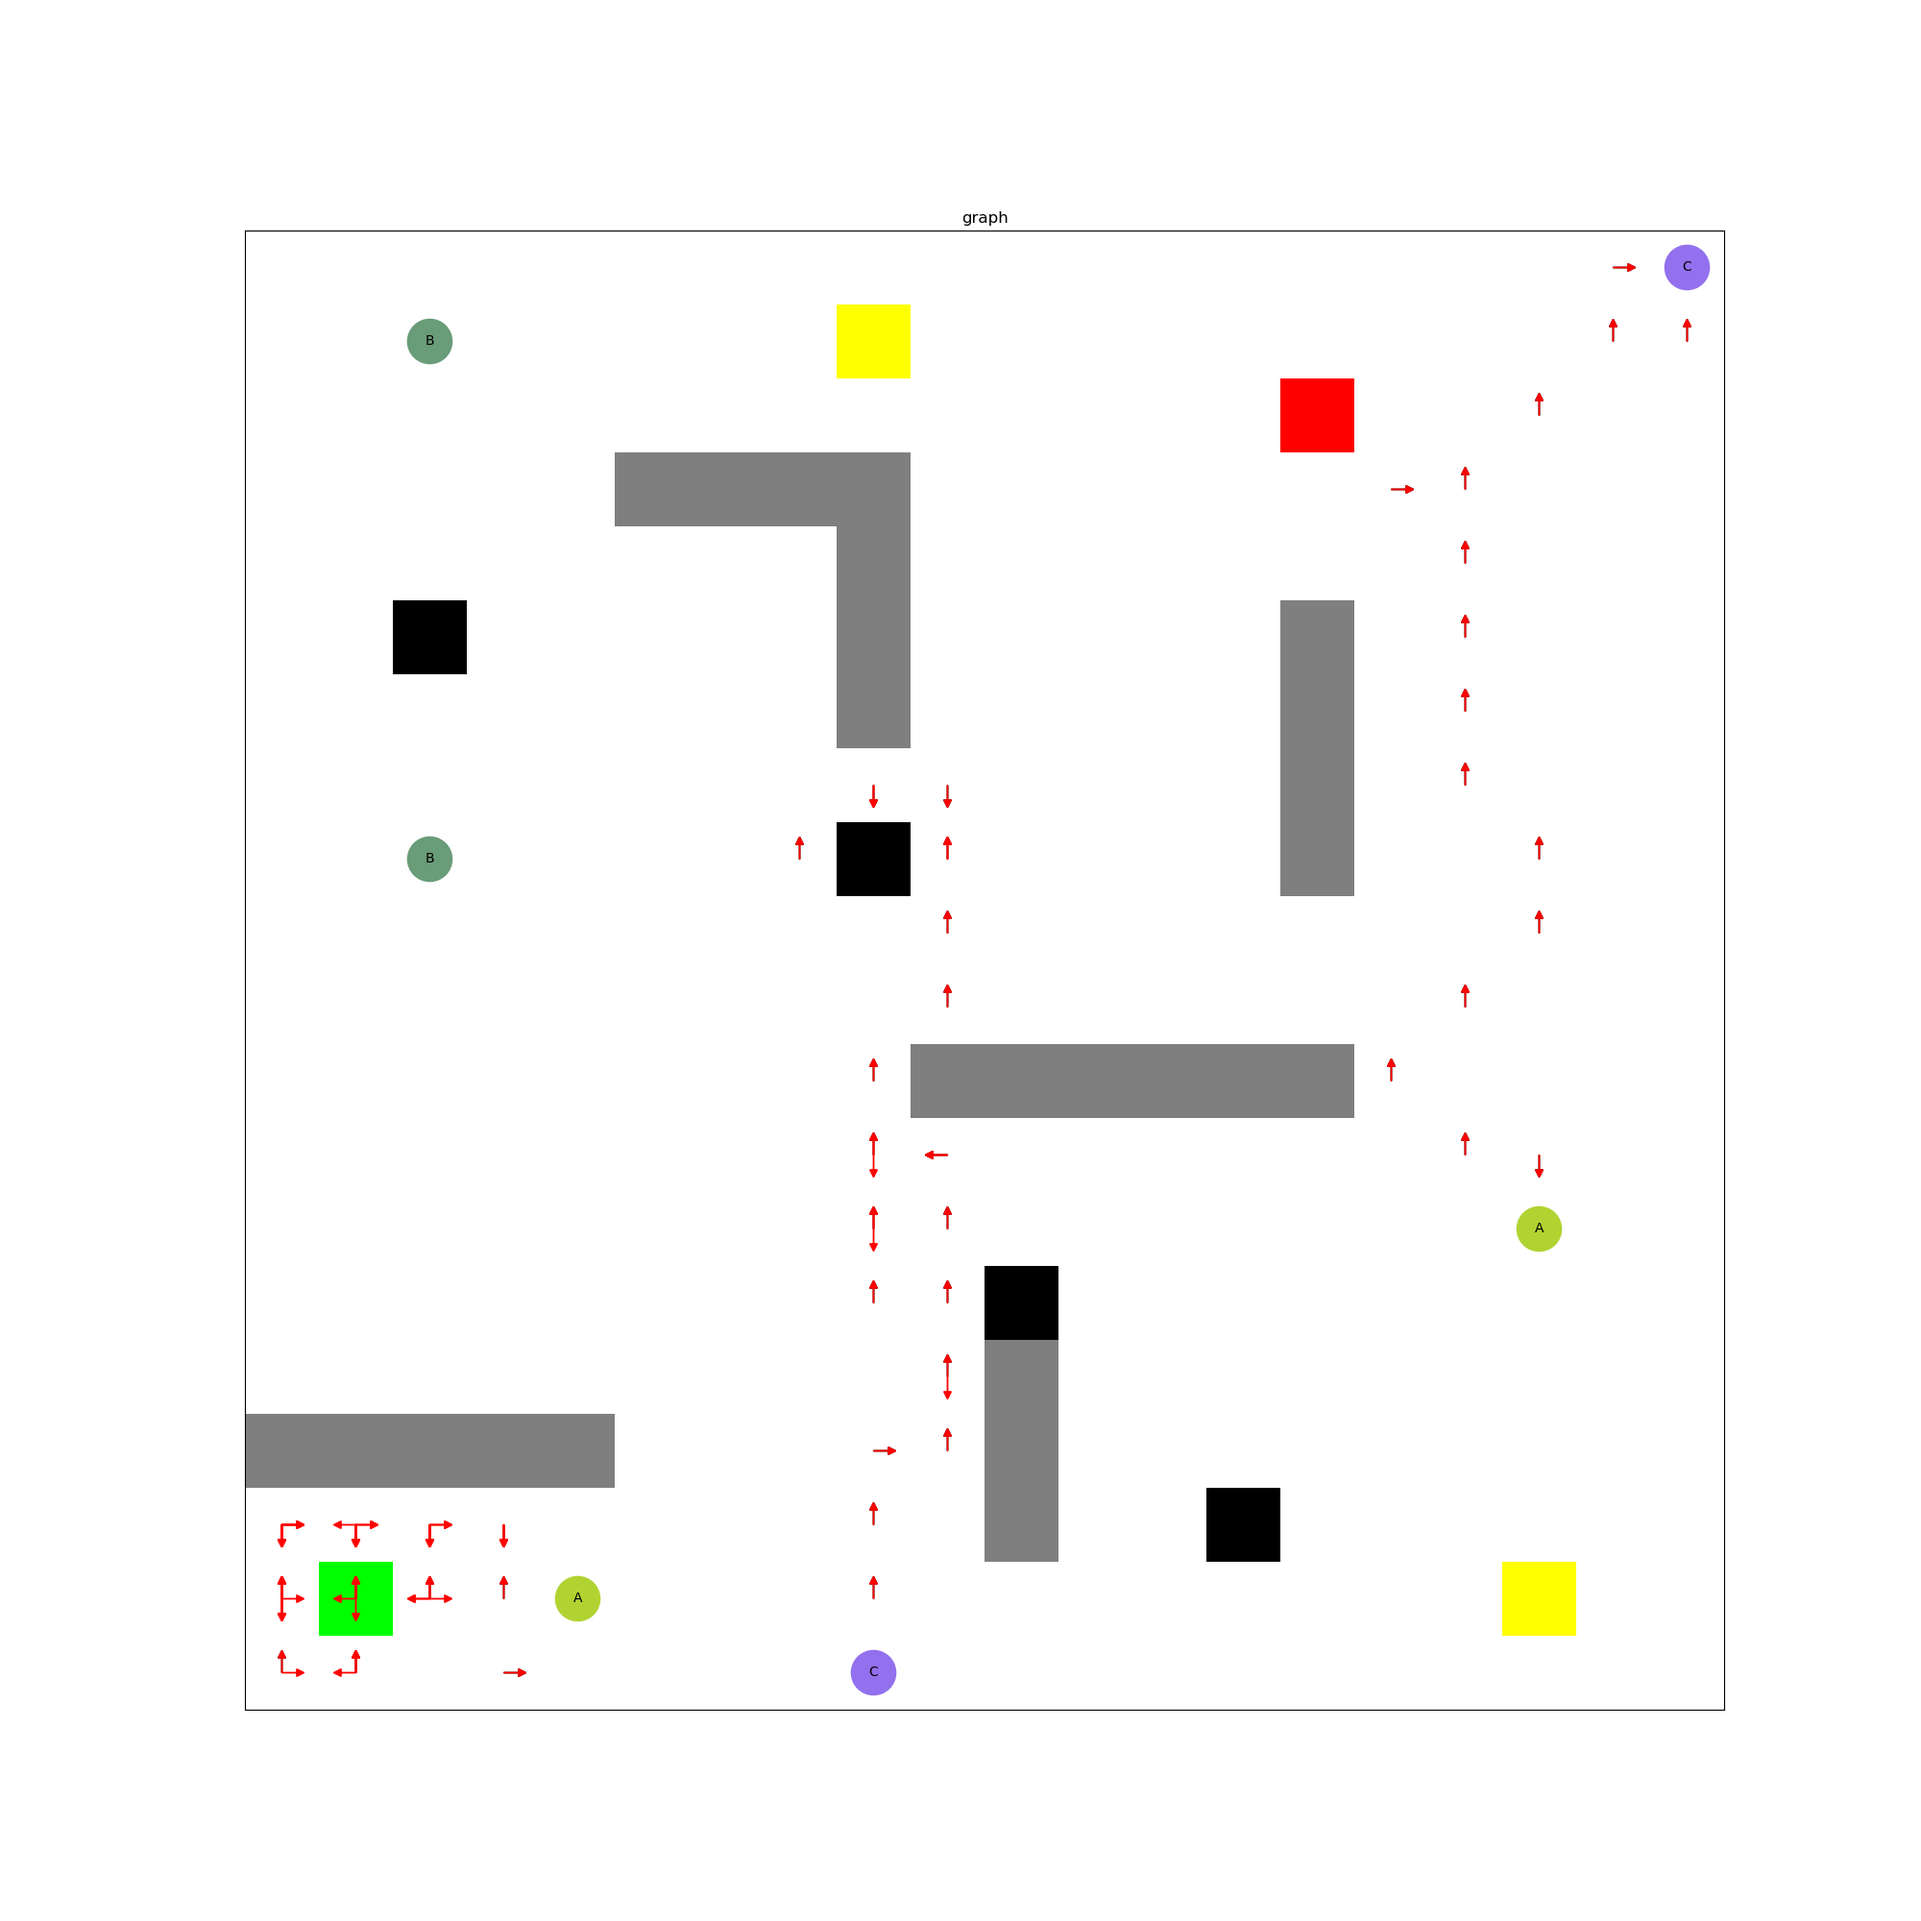
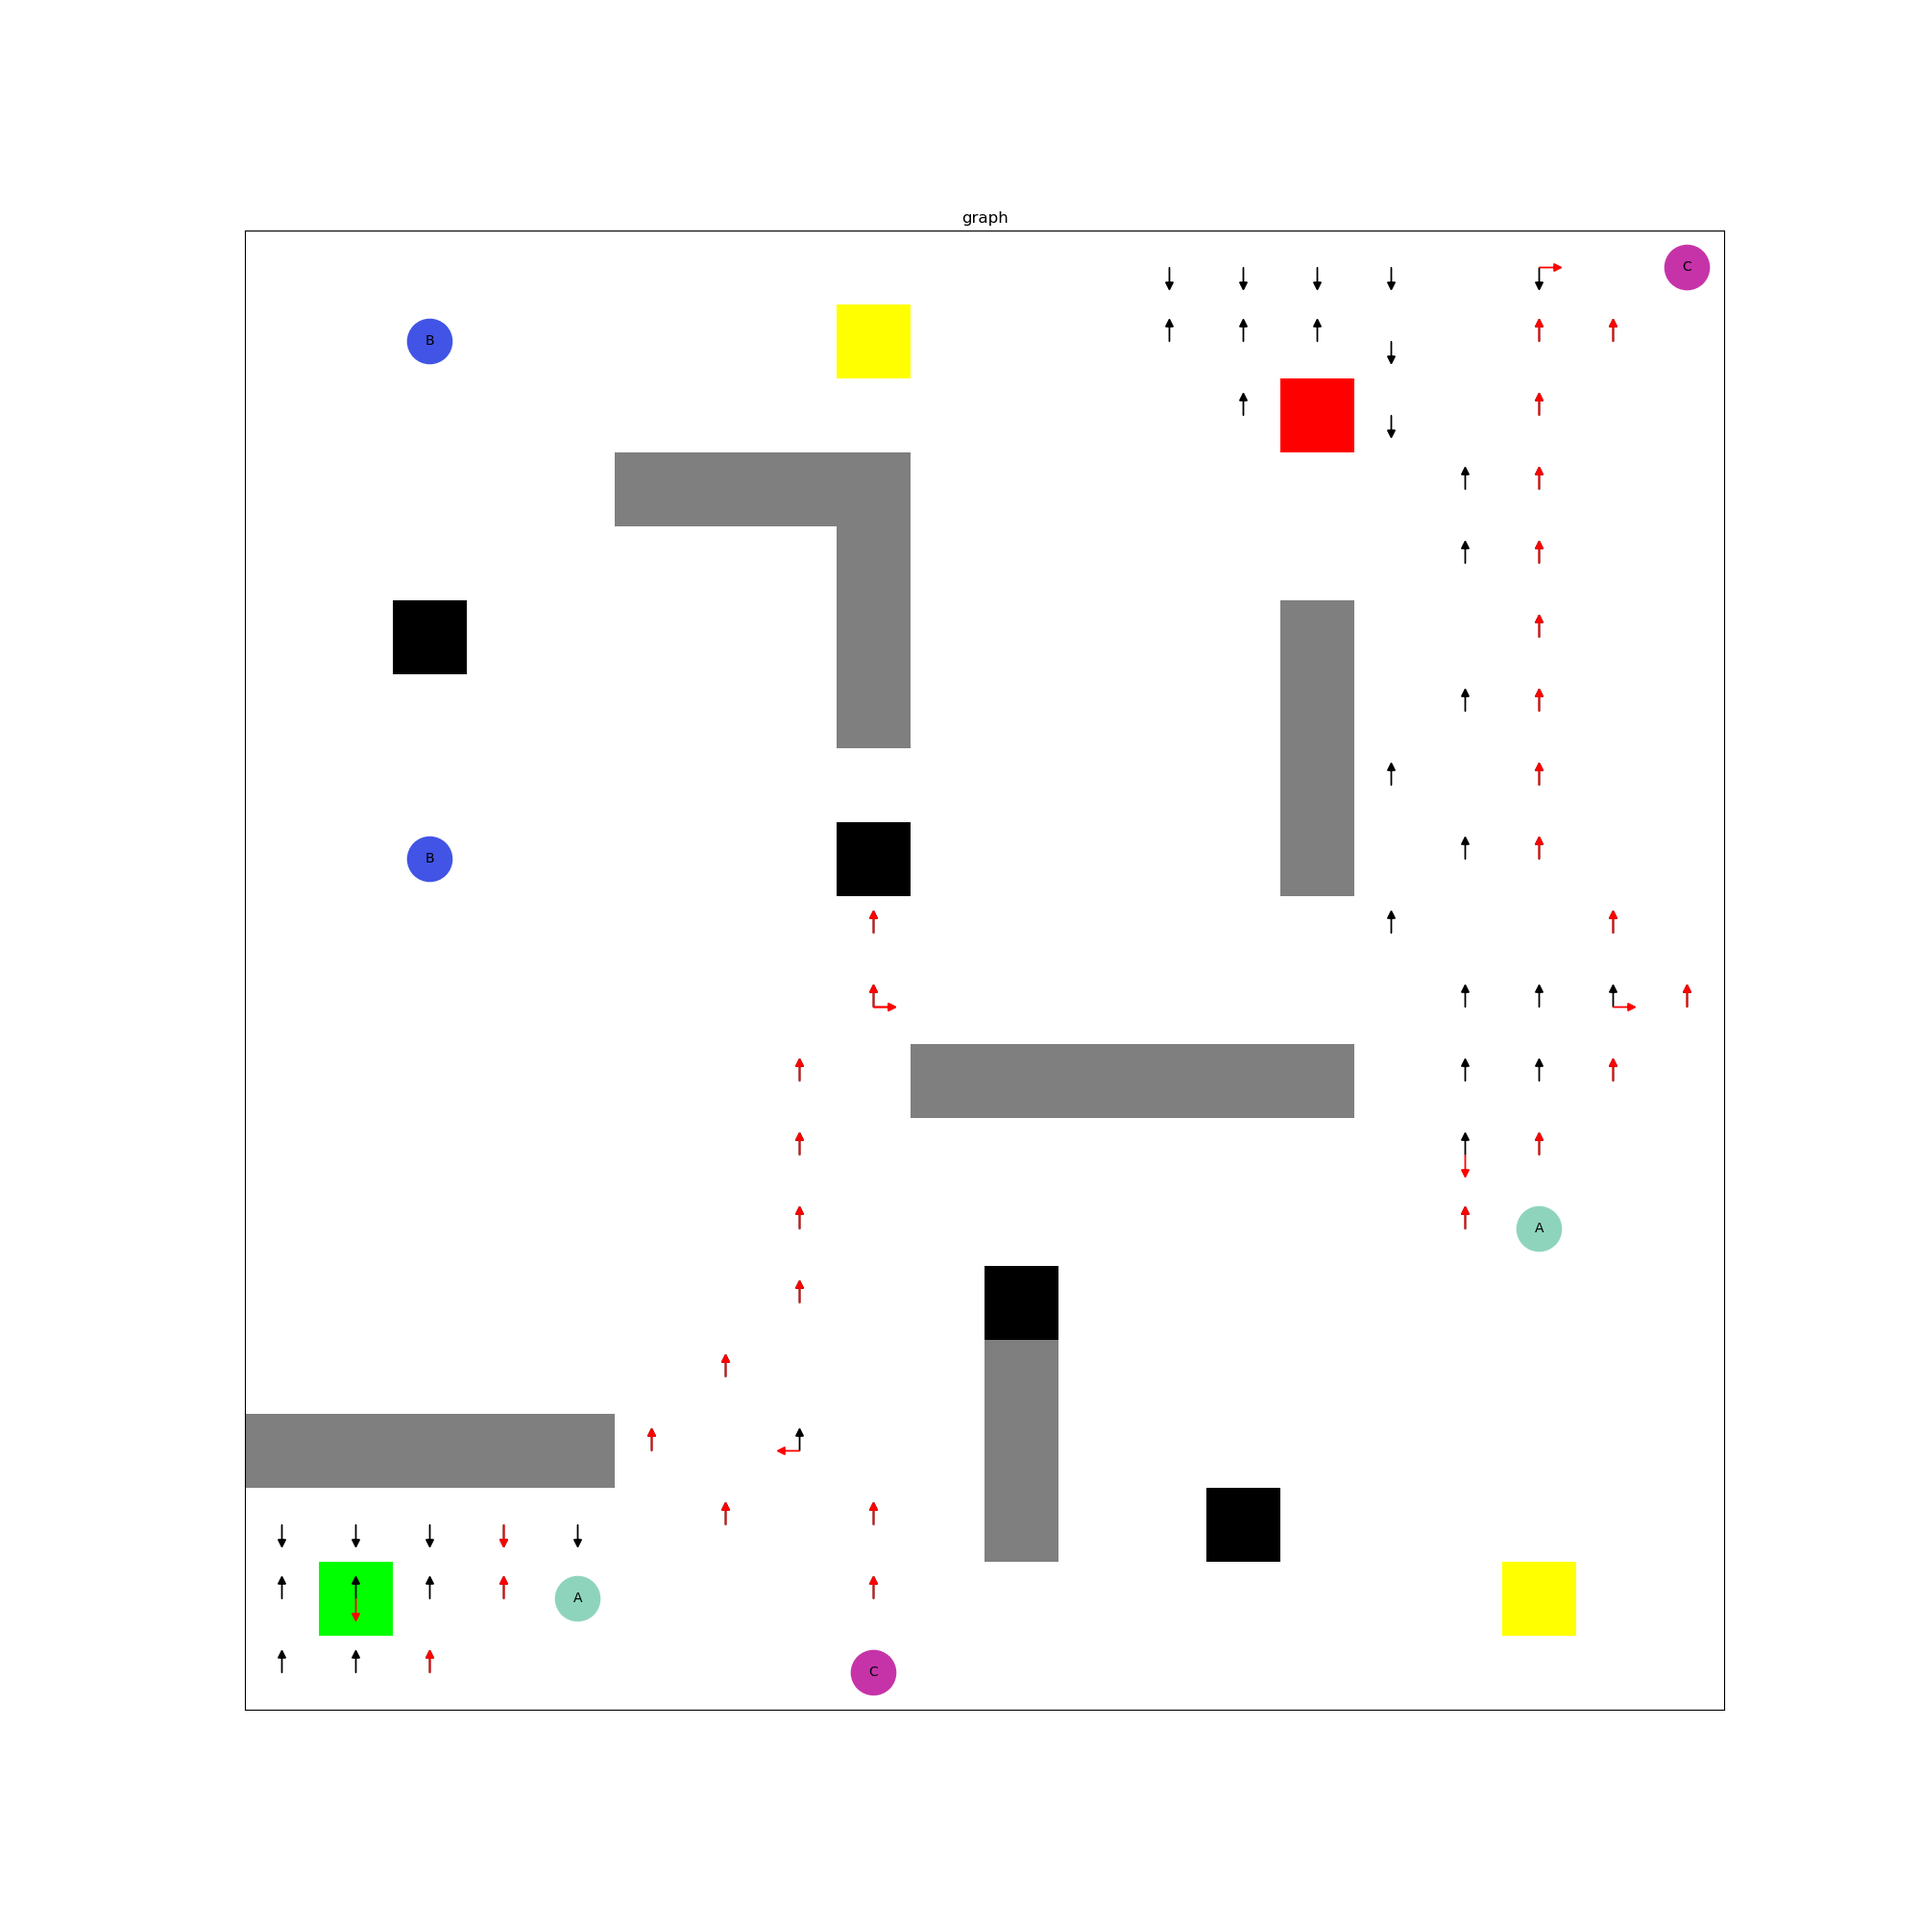
solved error and made the model expand only on really encountered states

diff --git a/algorithm.py b/algorithm.py
@@ -30,7 +30,7 @@ class Algorithm():
         self.n_episode = n_ep
         self.n_simulations = n_sim
         self.sim_k = sim_k
-        self.model = defaultdict(lambda: [0, 0, 0, []]) # occurence, time, Q, new states
+        self.model = dict() # occurence, time, Q, new states
 
         # plotting informations:
         self.holes = env._HOLES
@@ -45,8 +45,13 @@ class Algorithm():
         self.cumm_rew = []
 
     def eps_greedy_action(self, state): # chose an epsilon greedy action for the given state
+        q = []
         actions = self.env.valid_actions(state) # get all the possible actions
-        q = [self.model[state, a][2] for a in actions] # get the q factors for all the actions
+        for act in actions: # for all the possible actions
+            try:
+                q.append(self.model[state, act][2]) # if we've encountered it add it to the q list
+            except:
+                q.append(0) # else init it to zero
 
         if (np.random.uniform() < self.epsilon): # not greedy
             del actions[q.index(max(q))] # remove the greedy action
@@ -58,8 +63,14 @@ class Algorithm():
     # verified
     
     def q_update(self, state, action, reward, new_state):
+        q = []
         actions = self.env.valid_actions(new_state) # get all the possible actions
-        q = [self.model[new_state, a][2] for a in actions] # get the q factors for all the actions
+        for act in actions: # for all the possible actions
+            try:
+                q.append(self.model[state, act][2]) # if we've encountered it add it to the q list
+            except:
+                q.append(0) # else init it to zero
+
         max_q = max(q) # check the maximum one        
         self.model[state, action][2] += self.alpha * (reward + max_q - self.model[state, action][2]) # update the q
 
@@ -67,21 +78,32 @@ class Algorithm():
 
     def model_update(self, state, action, time, reward, new_state):
         seen = False
-        self.model[state, action][0] += 1 # increase the occurence of the given state action couple
-        self.model[state, action][1] = time # update the last time step we encountered the state action/couple
-        for n_state in self.model[state, action][3]: # for all the new state/reward encountered after the state action couple
-            if (n_state[0] == new_state) and (n_state[1] == reward): # if we've already encountered the new state reward combination
-                n_state[2] += 1 # increase its coourence
-                seen = True 
-        if seen == False: # if we didn't encounter this new state reward couple
-            self.model[state, action][3].append([new_state, reward, 1]) # append the couple over the new states for the state action couple
+        try: # if we've already encountred the state action couple
+            self.model[state, action][0] += 1 # increase the occurence of the given state action couple
+            self.model[state, action][1] = time # update the last time step we encountered the state action/couple            
+            for i in range(len(self.model[state, action][3])): # for all the new state/reward encountered after the state action couple
+                if (self.model[state, action][3][i][0] == new_state) and (self.model[state, action][3][i][1] == reward): # if we've already encountered the new state reward combination
+                    self.model[state, action][3][i][2] += 1 # increase its coourence
+                    seen = True 
+            
+            if seen == False: # if we didn't encounter this new state reward couple
+                self.model[state, action][3].append([new_state, reward, 1]) # append the couple over the new states for the state action couple
+        
+        except: # else init it
+            self.model[state, action] = [1, time, 0, [[new_state, reward, 1]]]
+            
     
     # verified
 
     def pq_update(self, state, action, reward, new_state, PQ):
         done = False
+        q = []
         actions = self.env.valid_actions(new_state) # get all the possible actions
-        q = [self.model[new_state, a][2] for a in actions] # get the q factors for all the actions
+        for act in actions: # for all the possible actions
+            try:
+                q.append(self.model[new_state, act][2]) # if we've encountered it add it to the q list
+            except:
+                q.append(0) # else init it to zero
         max_q = max(q) # check the maximum one
         p = abs(reward + max_q - self.model[state, action][2]) # get the q update
         
@@ -177,14 +199,14 @@ class Algorithm():
                     sim_state, sim_action = PQueue[0][0:2]
                     del PQueue[0]
                         
-                    new_sim_state, sim_reward = self.simulation(sim_state, sim_action, t)
+                    sim_new_state, sim_reward = self.simulation(sim_state, sim_action, t)
                     
-                    self.q_update(sim_state, sim_action, sim_reward, new_sim_state)
+                    self.q_update(sim_state, sim_action, sim_reward, sim_new_state)
                     
-                    pred = self.SA_predict(state)
+                    pred = self.SA_predict(sim_state)
                     
                     for pr in pred:
-                        PQueue = self.pq_update(pr[0], pr[1], pr[2], state, PQueue)
+                        PQueue = self.pq_update(pr[0], pr[1], pr[2], sim_state, PQueue)
 
                 
                 state = n_state
@@ -234,7 +256,7 @@ class Algorithm():
                 if (save == True): traj.append([state, action])
                 if (reward != 0): print("reward ", reward, "state ", state) 
                 
-                print("B model", self.model[state, action])
+                
                 self.model_update(state, action, t, reward, n_state)
                 print("C model", self.model[state, action])
                 PQueue = self.pq_update(state, action, reward, n_state, PQueue)
@@ -252,10 +274,11 @@ class Algorithm():
                     print("G model", self.model[sim_state, sim_action])
                     self.q_update(sim_state, sim_action, sim_reward, new_sim_state)
                     print("H model", self.model[sim_state, sim_action])
-                    pred = self.SA_predict(state)
+                    pred = self.SA_predict(sim_state)
                     print("I pred", pred)
                     for pr in pred:
-                        PQueue = self.pq_update(pr[0], pr[1], pr[2], state, PQueue)
+                        PQueue = self.pq_update(pr[0], pr[1], pr[2], sim_state, PQueue)
+                        print("L PQ", PQueue)
 
                 
                 state = n_state
@@ -273,9 +296,16 @@ class Algorithm():
     def policy_eval(self):
         policy = np.ones((self.rows, self.column)) * 5
         for state in self.states:
+            q = []
+            a_actions = []
             actions = self.env.valid_actions(state) # get all the possible actions
-            q = [self.model[state, a][2] for a in actions if self.model[state, a][0] > 0] # get the q factors for all the actions
-            actions = [a for a in actions if self.model[state, a][0] > 0] # get the q factors for all the actions
+            for act in actions: # for all the possible actions
+                try:
+                    q.append(self.model[state, act][2]) # if we've encountered it add it to the q list
+                    a_actions.append(act)
+                except:
+                    pass
+
             try:
                 policy[state[0]][state[1]] = actions[q.index(max(q))]
             except:
@@ -375,14 +405,17 @@ class Algorithm():
         plt.show()  # Show the plot
     
 def main(): 
+
     
     env = DunegeonEnvironment()
-    solver = Algorithm(env, 0.2, 0.9, 0.01, 1, 5, 0.01)
+    solver = Algorithm(env, 0.2, 0.2, 0.001, 2, 5, 0.0001)
     traj = solver.dyna_q_test()
     policy = solver.policy_eval()
-    #print("model", solver.model)
+    print("model", solver.model)
     solver.plot_arrow_grid(policy, traj, "graph")
     solver.plot_data()
+    
+    
        
     
     
@@ -396,7 +429,7 @@ DEBUG
     env = DunegeonEnvironment()
     solver = Algorithm(env, 0.3, 0.5, 0.1, 1, 1,  0.2)
     
-    solver.model[(10, 1), 2][2] = 2
+    solver.model[(10, 1), 2] = [0, 0, 2, []]
     act = solver.eps_greedy_action((10, 1))
     print("act", act)
 
@@ -405,7 +438,7 @@ DEBUG
     env = DunegeonEnvironment()
     solver = Algorithm(env, 0.3, 0.5, 0.1, 1, 1,  0.2)
     
-    solver.model[(10, 1), 2][2] = 2
+    solver.model[(10, 1), 2] = [0, 0, 2, []]
     print("model_b", solver.model)
     solver.q_update((10, 1), 2, 5, (10, 2))
     print("model_a", solver.model)
@@ -428,6 +461,7 @@ DEBUG
     solver = Algorithm(env, 0.3, 0.5, 0.1, 1, 1,  0.2)
     pq = []
     print("pq 1", pq)
+    solver.model_update((10, 1), 2, 5, 3, (10, 2))
     pq = solver.pq_update((10, 1), 2, 3, (10, 2), pq)
     print("pq 2", pq)
     pq = solver.pq_update((10, 1), 2, 4, (10, 2), pq)

diff --git a/README.md b/README.md
@@ -15,6 +15,6 @@ Update: found an error, i was modifing the model even in simulation, instead of 
 
 Update: tring to modify the model in a single dict, check functions and order of the arguments, it may be wrong sometimes.
 
-Update: made a single dict, much faster, thinking about create one dict for the q and one for the model, also created a bell shaped function if i want ot vary eps and alpha along the episodes.
+Update: made a single dict, much faster, thinking about create one dict for the q and one for the model, also created a bell shaped function if i want to vary eps and alpha along the episodes.
 
-Update: i will modify the code for expand the model only when we actually visit a state
+Update: modified to actually expand the model only with states/actions encountered. also found some error in simulation phase with the states passed to the functions.
